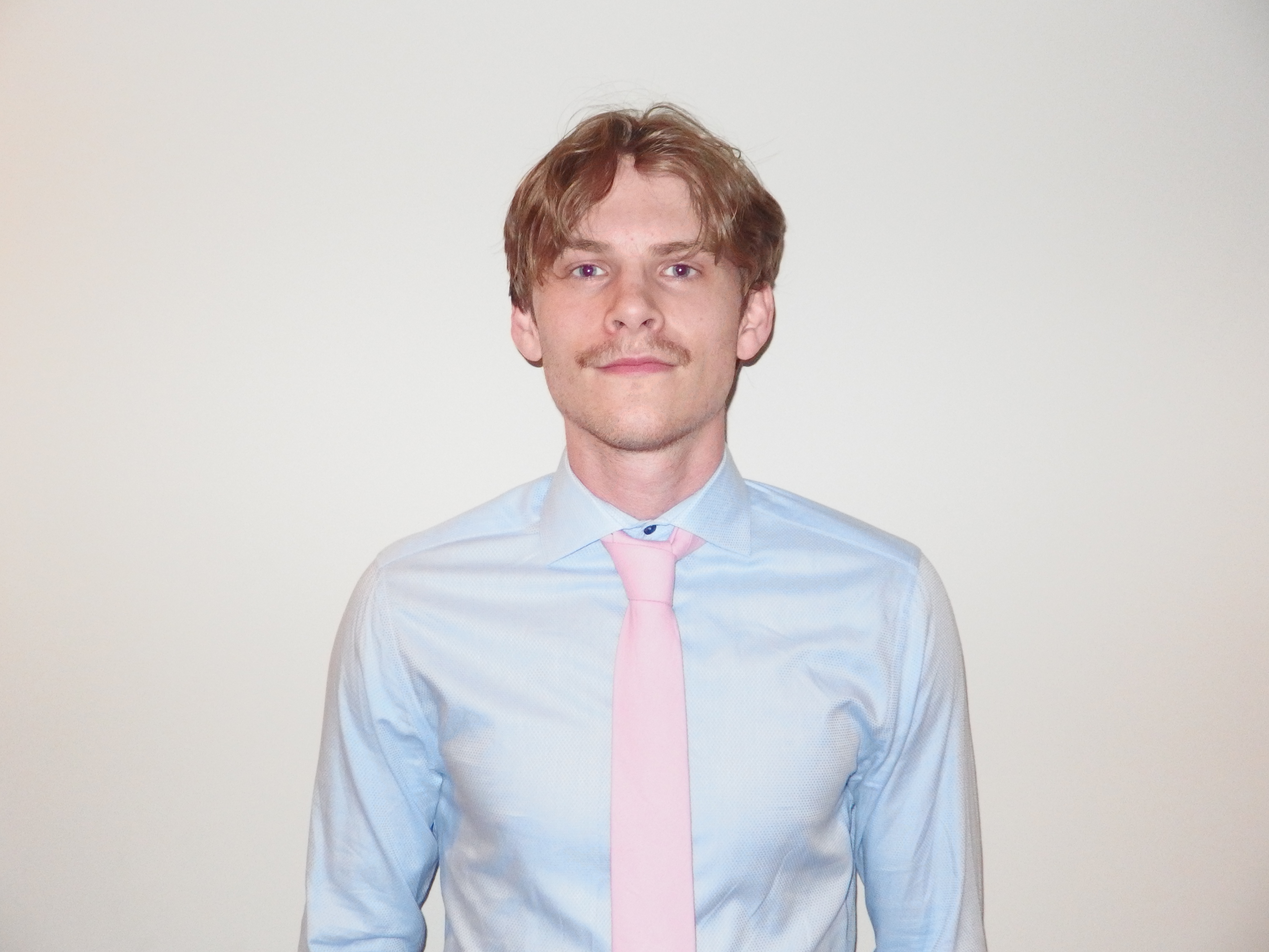
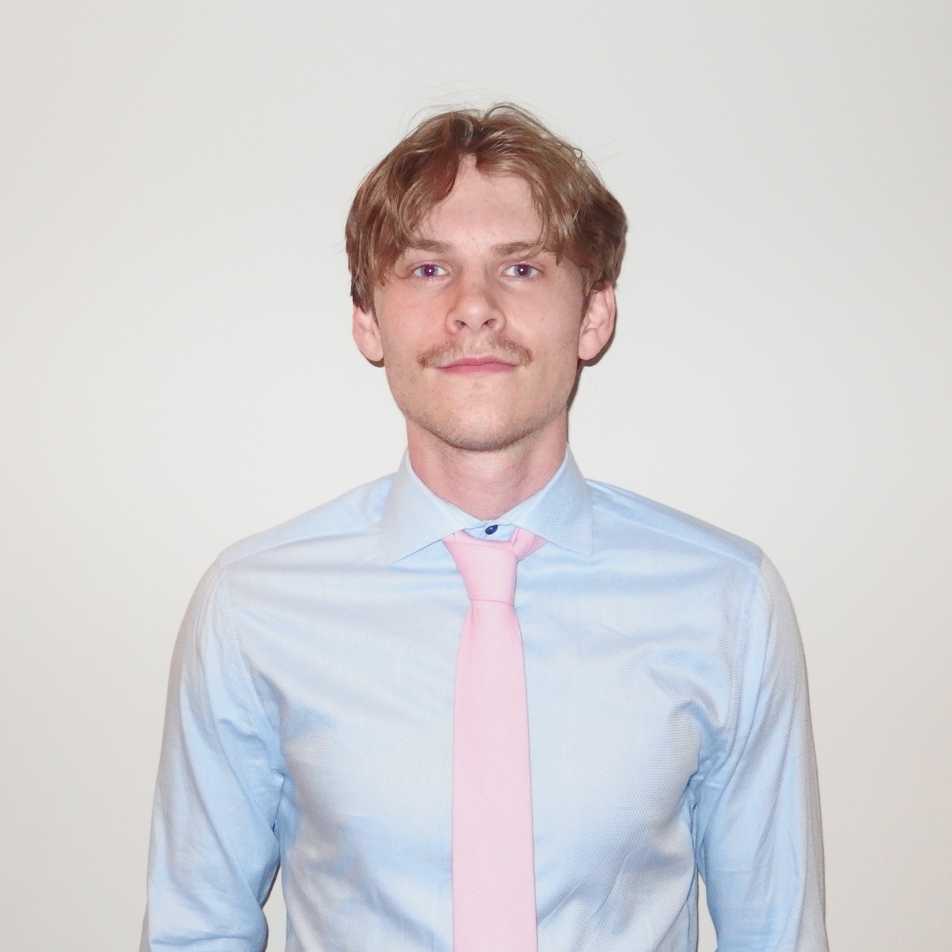
Design page gallery
added proper padding and margins for images

diff --git a/team.html b/team.html
@@ -7,79 +7,69 @@
     <link rel = "stylesheet" href = "styles.css">  
   </head>
   <body> 
-    <header class = "main-header"> 
+    <header class="main-header">
       <h1>Autonomous Human Temperature Tracking</h1> <!-- section heading -->
-      <hr class = "horiline">
+      <hr class="horiline">
       <nav class="nav"> <!-- navigation links -->
         <ul> <!-- unordered list -->
-          <li><a href = "index.html" class = "nav2">Home</a></li>
-          <li><a href = "team.html" class = "nav1">Team</a></li>
-          <li><a href = "background.html" class = "nav2">Background</a></li>
-          <li><a href = "design.html" class = "nav2">Design</a></li>
-          <li><a href = "ackno.html" class = "nav2">Acknowledgement</a></li>
-          <!-- Make blue background for the headings -->
+          <li><a href="index.html" class="nav1">Home</a></li>
+          <li><a href="team.html" class="nav2">Team</a></li>
+          <li><a href="background.html" class="nav2">Background</a></li>
+          <li><a href="design.html" class="nav2">Design</a></li>
+          <li><a href="ackno.html" class="nav2">Acknowledgement</a></li>
         </ul>
       </nav>
-      <hr class = "horiline">
+      <hr class="horiline"> <!-- horizontal rule -->
     </header>
+    <main>
     <section>
       <h2 class = "about"> Meet the team! </h2>
       <br>
       <div class = "gallery">
       <div>
-        <div>
+        <div class = "desc">
         <strong>Aidan MacNichol</strong>
         </div>
-        <img src = "Images/Aidan.jpeg" alt = "Aidan" width = "350" height = "300">
-        <div>
-          <span>
+        <img src = "Images/aidan.jpeg" alt = "Aidan" width = "450" height = "400">
+        <div class = "desc">
             Electrical Engineering Student <br>
             V00928936
-          </span>
         </div>
       </div>
-      <br><br>
+      </div>
       <div class = "gallery">
-        <div>
+        <div class = "desc">
         <strong>Ashwin Muruganandam</strong>
         </div>
-        <img src = "Images/Ashwin.jpeg" alt = "Ashwin" width = "350" height = "300" >
-        <div>
-          <span>
+        <img src = "Images/ash.jpeg" alt = "Ashwin" width = "450" height = "400">
+        <div class = "desc">
           Computer Engineering Student <br>
           V00927283
-          </span>
         </div>  
       </div>
       </div>
-      <br><br>
       <div class = "gallery">
-        <div>
+        <div class = "desc">
          <strong>Serafin Villaraza</strong>
         </div>
-        <img src = "Images/Serafin.jpeg" alt = "Serafin" width = "350" height = "300" >
-        <div>
-          <span>
+        <img src = "Images/Serafin.jpeg" alt = "Serafin" width = "450" height = "400">
+        <div class = "desc">
           Electrical Engineering Student <br>
           V00943474
-          </span>
        </div>
        </div>
-      <br><br>
       <div class = "gallery">
-        <div>
+        <div class = "desc">
          <strong>Will Bowen</strong>
         </div>
-        <img src = "Images/Will.jpeg" alt = "Will" width = "350" height = "300" >
-        <div>
-          <span>
+        <img src = "Images/Will.jpeg" alt = "Will" width = "450" height = "400">
+        <div class = "desc">
           Electrical Engineering Student <br>
           V00907600
-          </span>
        </div>
        </div>
-       <br>
     </section>
+    </main>
     <footer class=main-footer>
       UVic - ECE 499 Group #20, 2023
     </footer>

diff --git a/styles.css b/styles.css
@@ -99,9 +99,10 @@ html, body {
   }
 
   div.gallery {
-    margin: 5px;
+    margin: 40px;
     float: left;
-    width: 180px;
+    width: 280px;
+    padding: auto;
   }
   
   div.gallery:hover {
@@ -114,7 +115,7 @@ html, body {
   }
   
   div.desc {
-    padding: 15px;
+    padding-left: 15px;
     text-align: center;
   }
   

diff --git a/index.html b/index.html
@@ -1,6 +1,5 @@
 <!DOCTYPE html>
 <html>
-
 <head>
   <title>
     ECE 499 - Team 20
